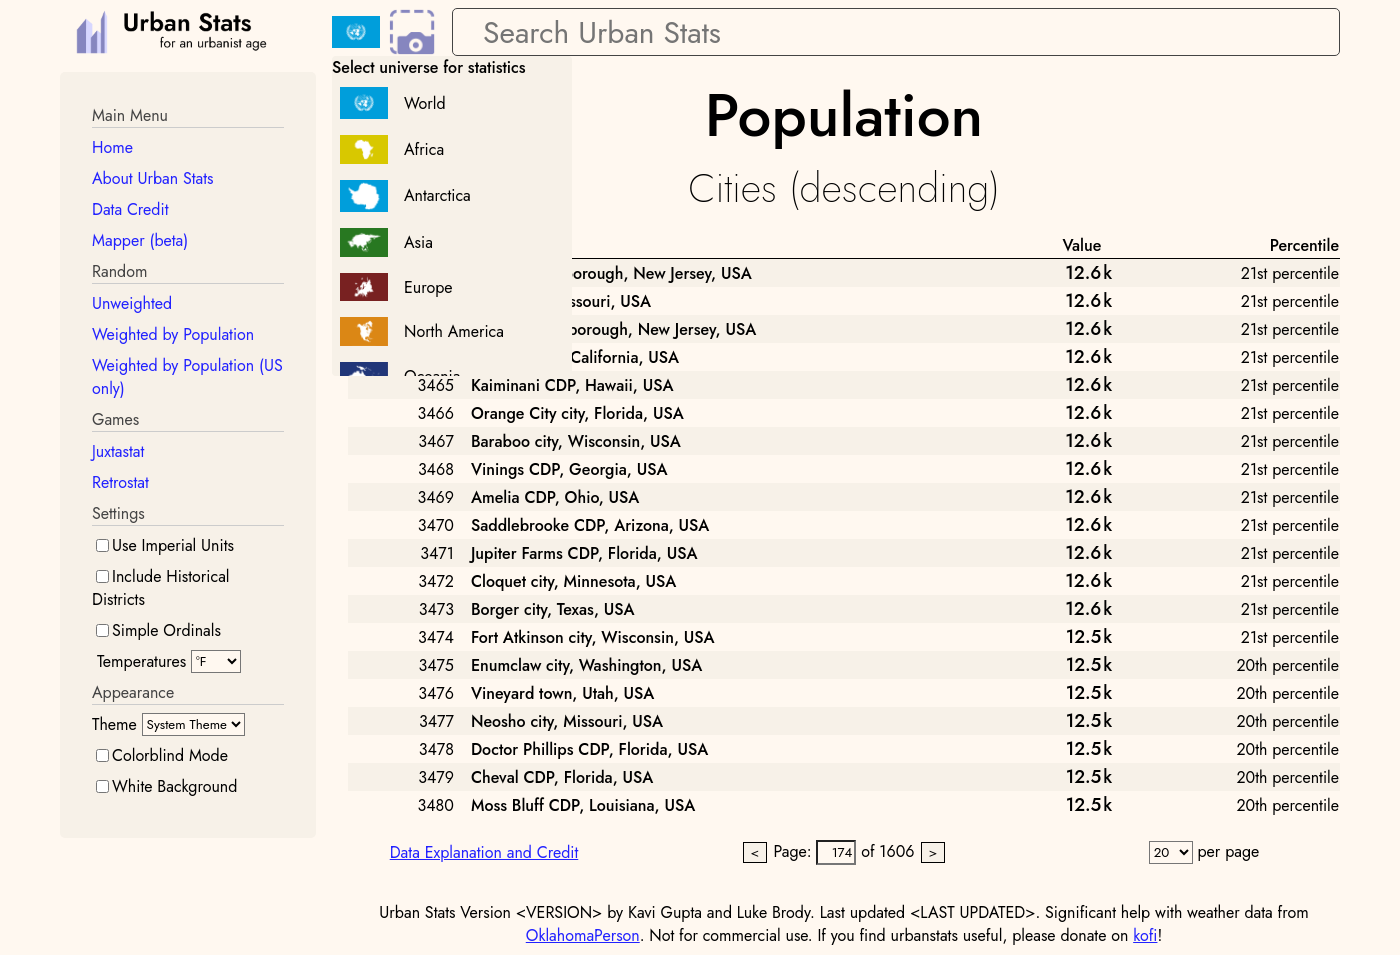
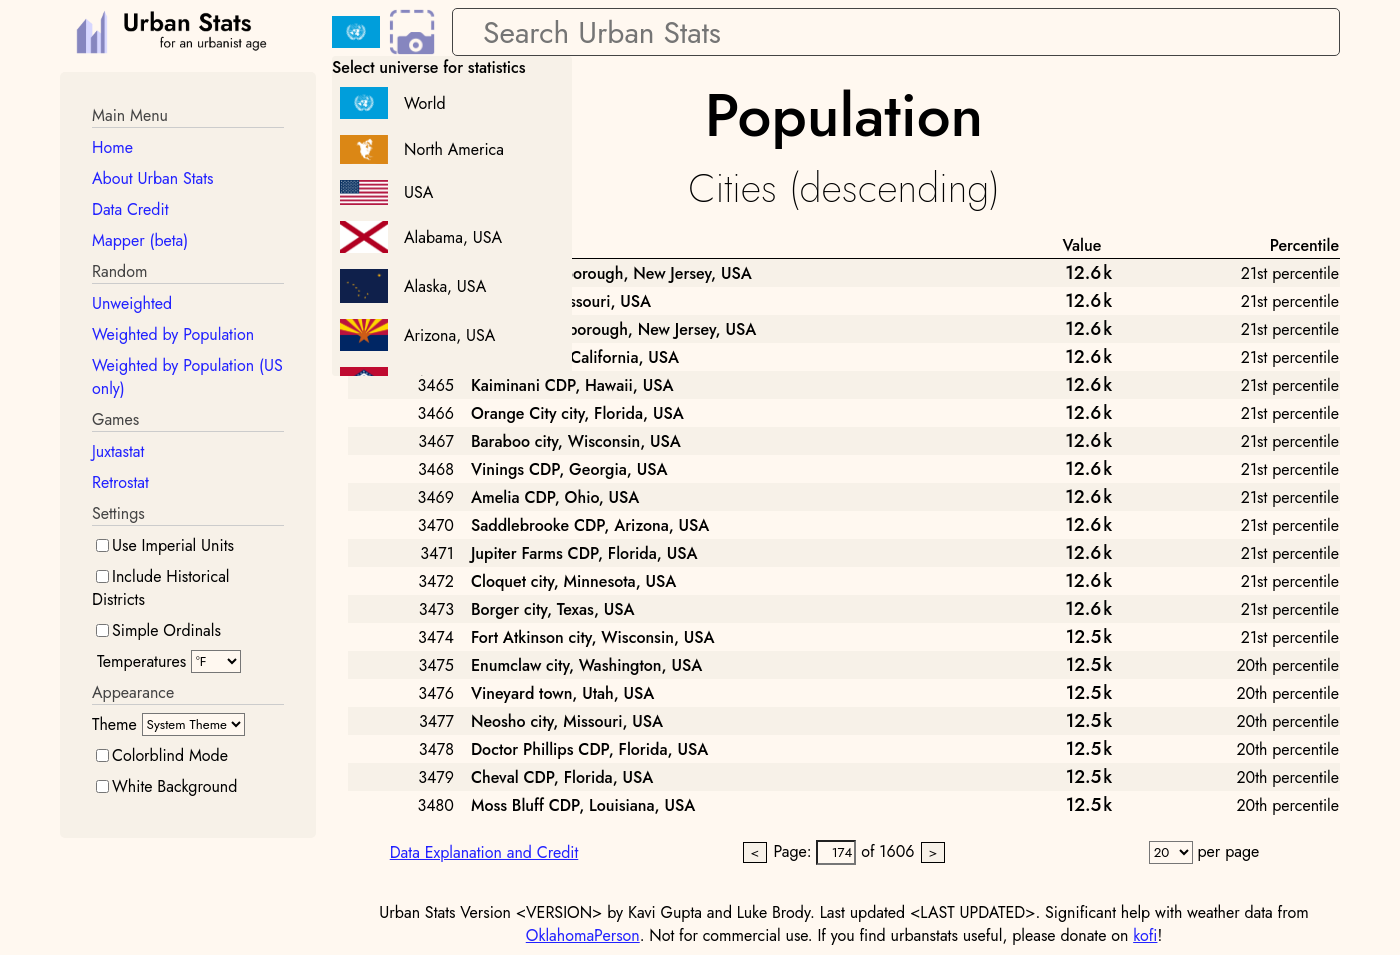
filter universes in stats view (#603)

Changed region(s): [[0.2457, 0.1215, 0.3686, 0.3948]]

diff --git a/react/src/components/statistic-panel.tsx b/react/src/components/statistic-panel.tsx
@@ -11,6 +11,7 @@ import { useUniverse } from '../universe'
 import { useHeaderTextClass, useSubHeaderTextClass } from '../utils/responsive'
 import { display_type } from '../utils/text'
 
+import { for_type, StatCol } from './load-article'
 import { Percentile, Statistic } from './table'
 
 const table_style = { display: 'flex', flexDirection: 'column', padding: '1px' } as const
@@ -30,6 +31,7 @@ export function StatisticPanel(props: {
     count: number
     ordering: 'ascending' | 'descending'
     joined_string: string
+    statcol: StatCol
     statname: string
     article_type: string
     article_names: string[]
@@ -102,6 +104,10 @@ export function StatisticPanel(props: {
 
     const textHeaderClass = useHeaderTextClass()
 
+    const universes_filtered = universes_ordered.filter(
+        universe => for_type(universe, props.statcol, props.article_type) > 0,
+    )
+
     return (
         <PageTemplate
             screencap_elements={() => ({
@@ -110,7 +116,7 @@ export function StatisticPanel(props: {
                 elements_to_render: [headers_ref.current!, table_ref.current!],
             })}
             has_universe_selector={true}
-            universes={universes_ordered}
+            universes={universes_filtered}
         >
             <div>
                 <div ref={headers_ref}>

diff --git a/react/test/statistics_test.ts b/react/test/statistics_test.ts
@@ -101,6 +101,32 @@ test('statistic-universe-selector-test', async (t) => {
     await screencap(t)
 })
 
+urbanstatsFixture('statistic universe availability test', `${TARGET}/statistic.html?statname=Commute+Car+__PCT__&article_type=Subnational+Region&start=21&amount=20&universe=USA`)
+
+test('statistic-universe availability test', async (t) => {
+    await t
+        .click(Selector('img').withAttribute('class', 'universe-selector'))
+    const options = Selector('img').withAttribute('class', 'universe-selector-option')
+    await t.expect(options.count).eql(55)
+    // take the first 10 options and get the alt attribute
+    const first10: (string | null)[] = []
+    for (let i = 0; i < 10; i++) {
+        first10.push(await options.nth(i).getAttribute('alt'))
+    }
+    await t.expect(first10).eql([
+        'world',
+        'North America',
+        'USA',
+        'Alabama, USA',
+        'Alaska, USA',
+        'Arizona, USA',
+        'Arkansas, USA',
+        'California, USA',
+        'Colorado, USA',
+        'Connecticut, USA',
+    ])
+})
+
 urbanstatsFixture('statistic ascending descending', `${TARGET}/statistic.html?statname=Population&article_type=Subnational+Region&start=1&amount=10`)
 
 // get elements on page

diff --git a/react/src/components/load-article.ts b/react/src/components/load-article.ts
@@ -57,6 +57,12 @@ function lookup_in_compressed_sequence(seq: [number, number][], idx: number): nu
 export function for_type(universe: string, statcol: StatCol, typ: string): number {
     const idx = stats.indexOf(statcol) // Works because `require` is global
     const counts_by_universe = require('../data/counts_by_article_type.json') as Record<string, Record<string, [number, number][]>>
+    if (!(universe in counts_by_universe)) {
+        return 0
+    }
+    if (!(typ in counts_by_universe[universe])) {
+        return 0
+    }
     const counts_by_type = counts_by_universe[universe][typ]
 
     return lookup_in_compressed_sequence(counts_by_type, idx)

diff --git a/react/src/statistic.tsx b/react/src/statistic.tsx
@@ -49,6 +49,7 @@ async function loadPage(): Promise<void> {
     root.render(
         <UNIVERSE_CONTEXT.Provider value={universe}>
             <StatisticPanel
+                statcol={statcol}
                 statname={statname}
                 count={for_type(universe, statcol, article_type)}
                 explanation_page={explanation_page}
